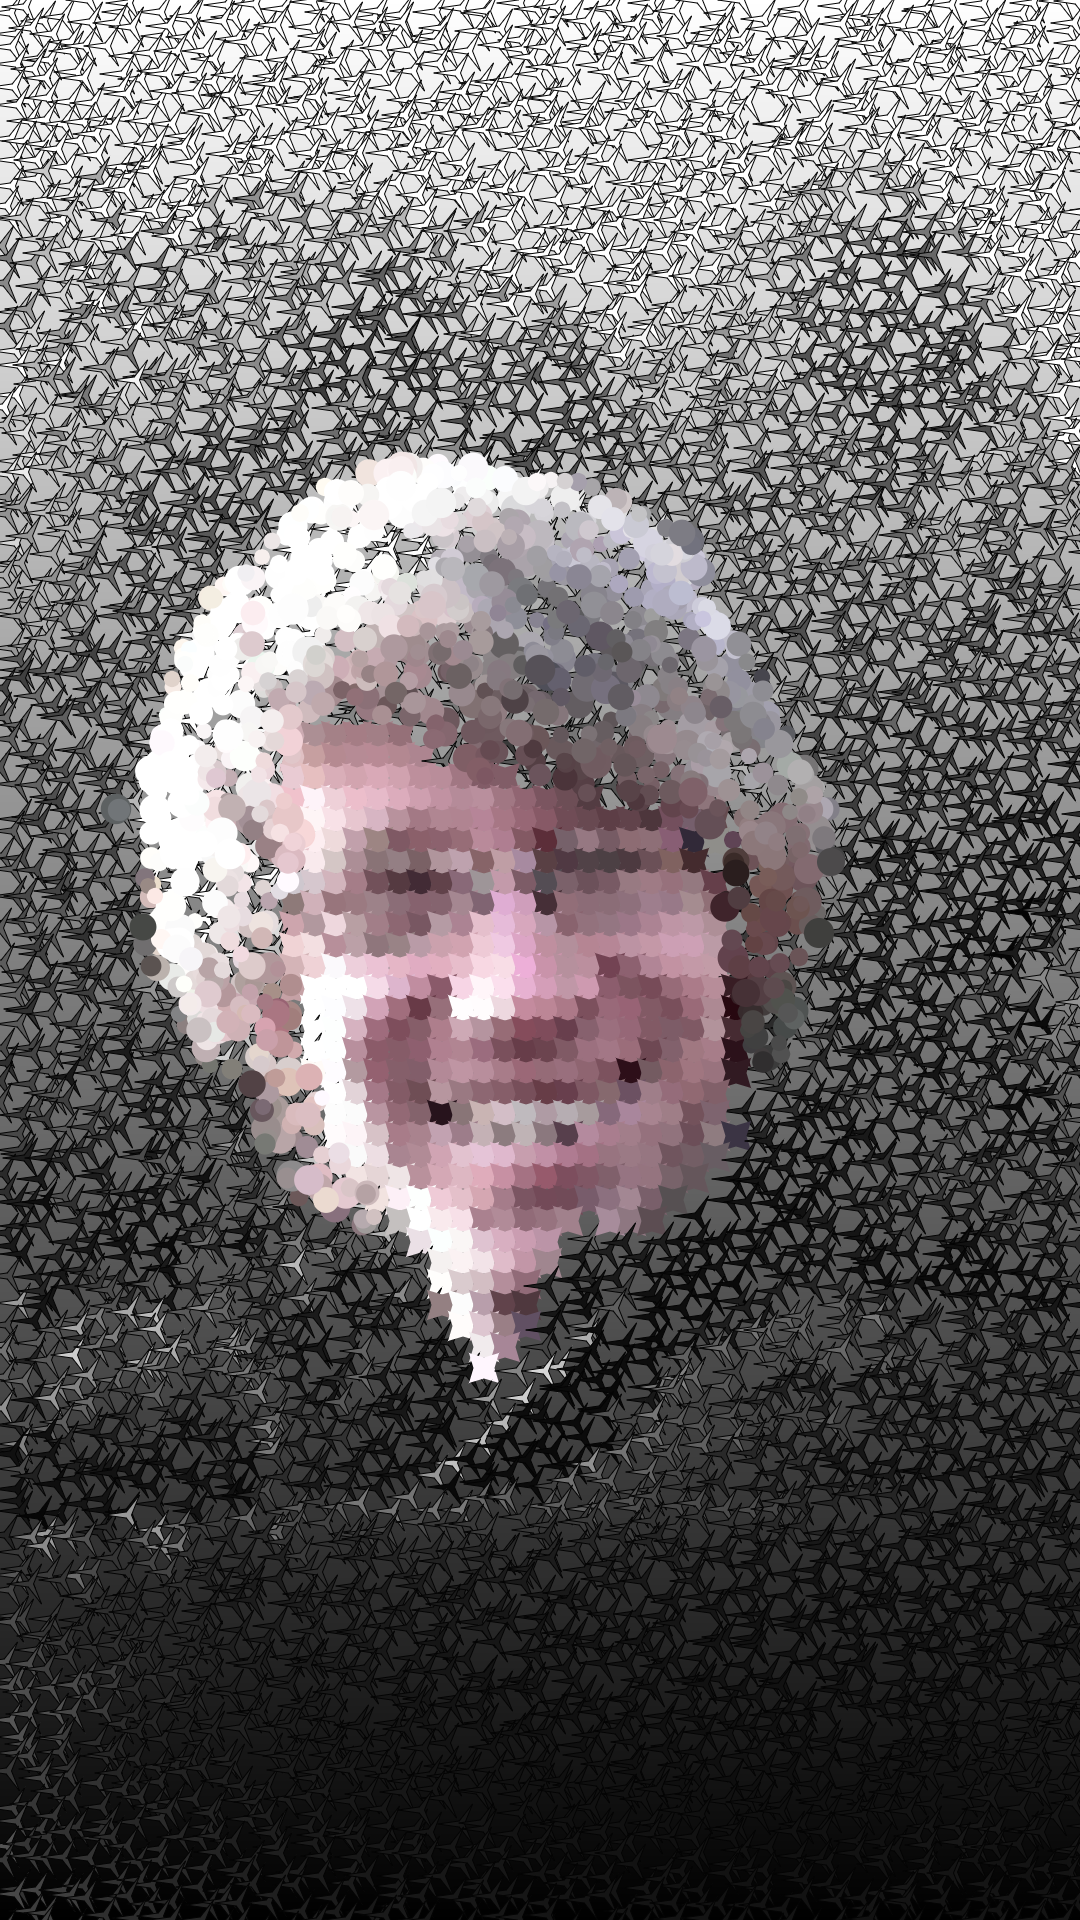
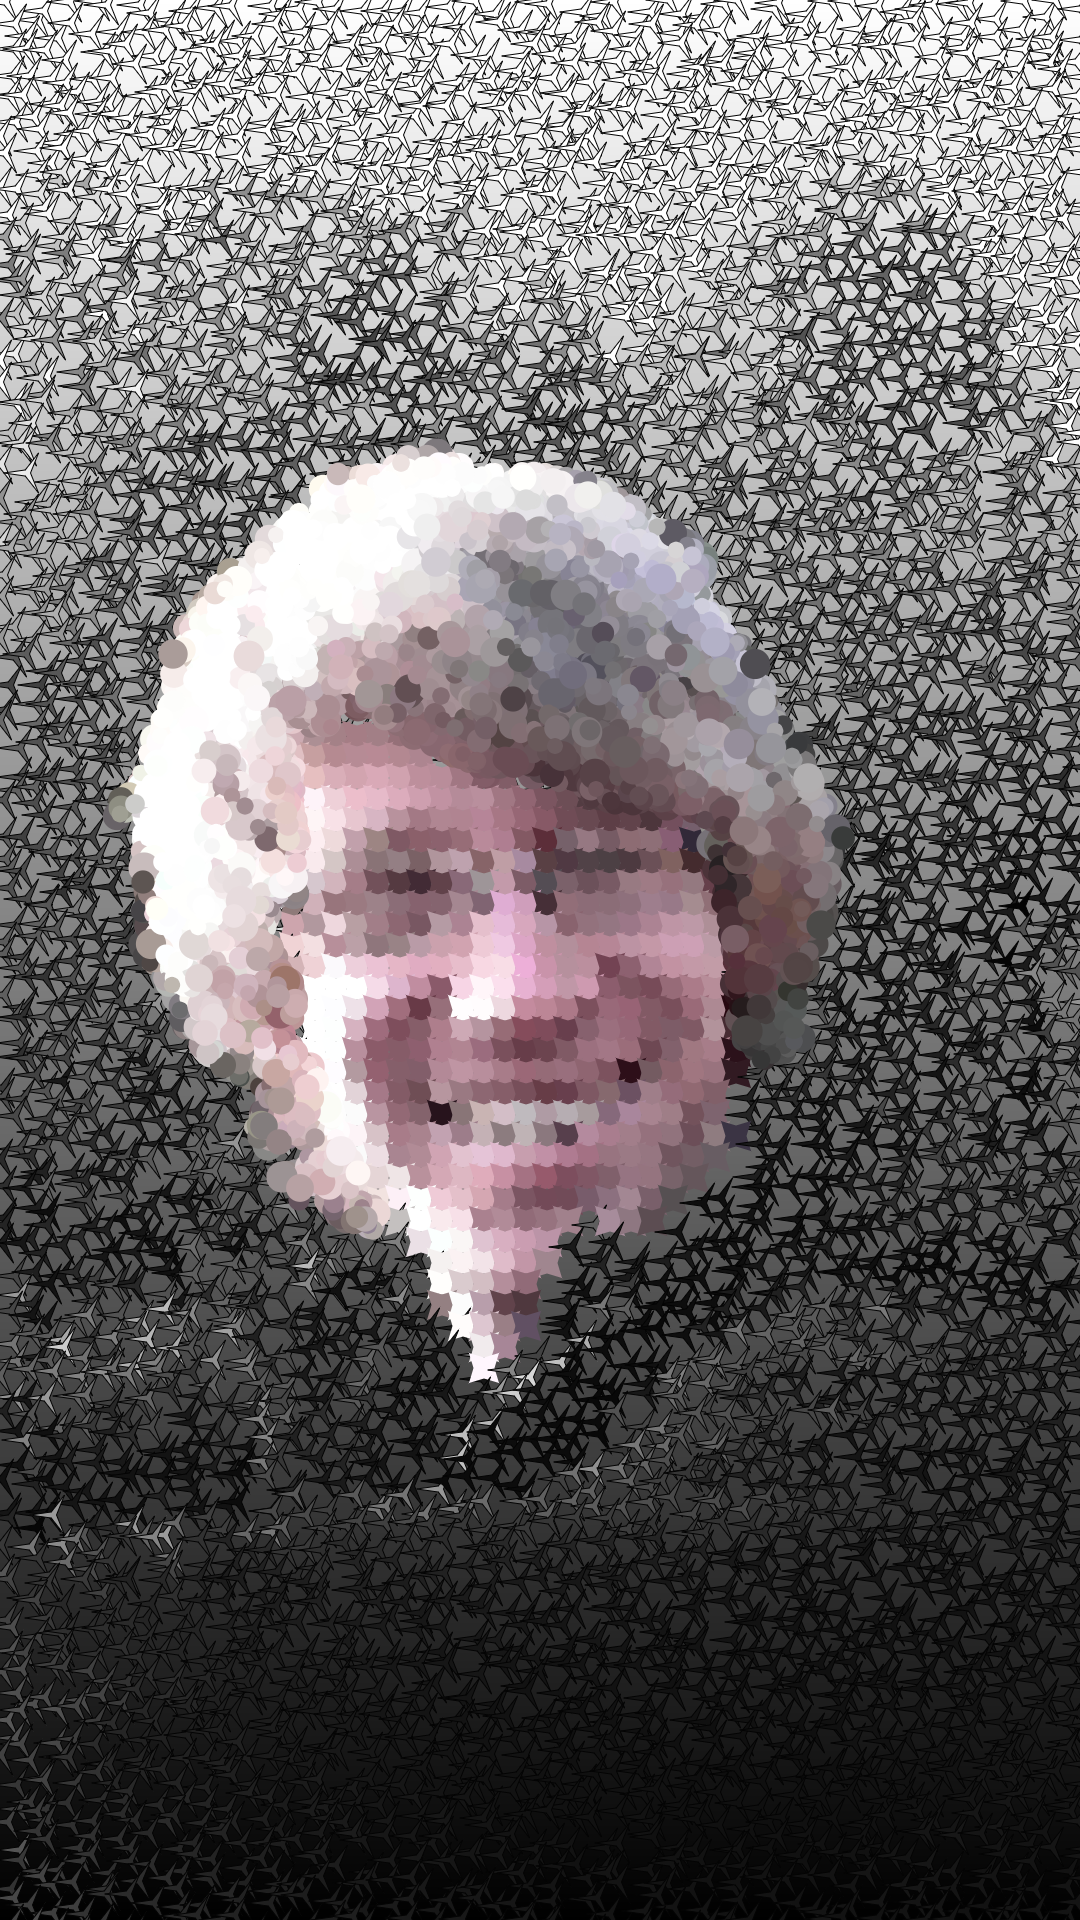
tried some experiments

diff --git a/sketch.js b/sketch.js
@@ -9,13 +9,15 @@ var X_AXIS = 2;
 let elementSpacing = 40;
 let circleSize = 60;
 let squareSize = 40;
+var DrawCalls = 500;
 
 /* Override some variables with high-resolution final version */
 if (finalVersion) {
-	let scale = 1.9;
+	let scale = 2.8;
 	elementSpacing = elementSpacing/scale;
 	circleSize = circleSize/scale;
 	squareSize = squareSize/scale;
+	DrawCalls = DrawCalls * scale;
 }
 
 let sourceImg=null;
@@ -23,7 +25,7 @@ let maskImg=null;
 let renderCounter=0;
 let renderCounterTwo=0;
 var PixelDensity = 100*2;
-var DrawCalls = 1000;
+
 
 function preload() {
 	sourceImg = loadImage("input_S1.jpg");
@@ -73,9 +75,9 @@ function draw () {
 		if(maskTwo[0] > 128 && SecondDraw == true) {
 			fill(pix2);
 			noStroke();
+			//adds random scaling to the circles
 			let rand = getRandom(1,2);
 			ellipse(x2, y2, circleSize/rand, circleSize/rand);
-			//star(x, y, squareSize, squareSize, 2); 
 		}
 		if(mask[0] > 128 && SecondDraw == false) {
 			noStroke();
@@ -99,44 +101,18 @@ function draw () {
 	if(renderCounter > 1920/elementSpacing && SecondDraw == false) {
 		console.log("First Draw Done!")
 		SecondDraw = true;
-		//noLoop();
-	    // saveBlocksImages();
+
 	} 
 	if(SecondDraw) {
 		renderCounterTwo = renderCounterTwo + 1; 
 		if(renderCounterTwo > DrawCalls) {
 			console.log("Second Draw Done!")
 			noLoop();
-			// saveBlocksImages();
+
 		}
 	}
 }
 
-// function draw () {
-//   for(let i=0;i<PixelDensity;i++) {
-//     let x = floor(random(sourceImg.width));
-//     let y = floor(random(sourceImg.height));
-//     let pix = sourceImg.get(x, y);
-//     let mask = maskImg.get(x, y);
-//     let pointSize = 25/1.5;
-//     let halfSize = 12/1.5;
-//     fill(pix);
-//     if(mask[0] > 128) {
-//       star(x, y, pointSize, halfSize/1.5, 3);
-//  		//ellipse(x, y, pointSize, pointSize);
-//     }
-//     else {
-//       star(x, y, pointSize, halfSize, 4);      
-//   		//rect(x-halfSize, y-halfSize, pointSize, pointSize);    
-//     }
-//   }
-//   renderCounter = renderCounter + 1;
-//   if(renderCounter > DrawCalls) {
-//     console.log("Done!")
-//     noLoop();
-//     // saveBlocksImages();
-//   }
-// }
 
 function keyTyped() {
 	if (key == '!' || key == '1') {
@@ -149,6 +125,7 @@ function getRandom(min, max) {
   max = Math.floor(max);
   return (Math.random() * (max - min)) + min; //The maximum is inclusive and the minimum is inclusive 
 }
+
 //creates a colour gradient source: https://p5js.org/examples/color-linear-gradient.html
 function setGradient(x, y, w, h, c1, c2, axis) {
 

diff --git a/index.html b/index.html
@@ -3,9 +3,9 @@
 <body style="background-color:white">
     <table>
         <tr>
-            <td><a href="artwork_A1.png"><img height="29%" src="artwork_A2.png"></a></td>
-            <td><a href="artwork_6.png"><img height="29%" src="artwork_T.png"></a></td>
-            <td><a href="artwork_A2.png"><img height="29%" src="artwork_S.png"></a></td>
+            <td><a href="artwork_A1_experiment.png"><img height="29%" src="artwork_A1_experiment.png"></a></td>
+            <td><a href="artwork_AnS1_experiment.png"><img height="29%" src="artwork_AnS1_experiment.png"></a></td>
+            <td><a href="artwork_S.png"><img height="29%" src="artwork_S.png"></a></td>
         </tr>
     </table>
     <a href="render.html">render program</a>
